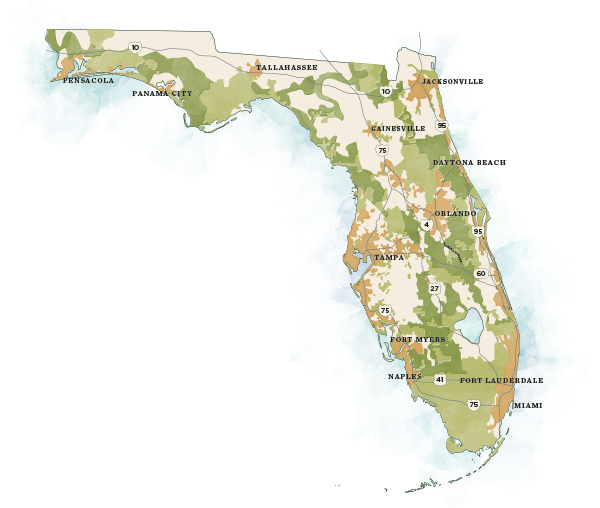
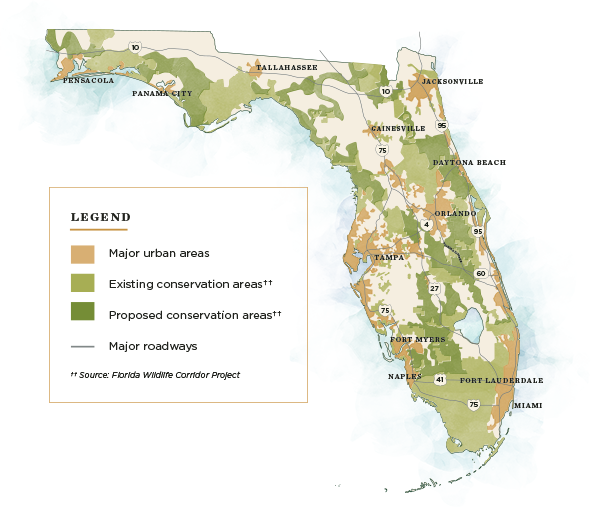
Updated colors and images

Changed region(s): [[0.12, 0.4134, 0.45, 0.6496], [0.12, 0.6791, 0.39, 0.7677]]

diff --git a/dev/2016/spring/state-of-nature/state-of-nature.html b/dev/2016/spring/state-of-nature/state-of-nature.html
@@ -1,6 +1,6 @@
 <article class="story story-default">
   <div class="container-wide story-header-image" style="background-image: url('/wp-content/themes/Pegasus-Theme/dev/2016/spring/state-of-nature/img/finding-balance-header.jpg');">
-    <img src="/wp-content/themes/Pegasus-Theme/dev/2016/spring/state-of-nature/img/finding-balance-header.jpg" alt="The Power of Inclusion" title="The Power of Inclusion">
+    <img src="/wp-content/themes/Pegasus-Theme/dev/2016/spring/state-of-nature/img/finding-balance-header.jpg" alt="Photo of Florida marsh" title="Photo of Florida marsh">
   </div>
   <div class="container">
     <div class="row title-wrap">
@@ -51,7 +51,7 @@ Noss wanders lands like this regularly. "It's a civic responsibility, but it's a
       <div class="col-md-10 col-sm-10 col-md-offset-1 col-sm-offset-1 story">
 
         <img src="/wp-content/themes/Pegasus-Theme/dev/2016/spring/state-of-nature/img/grasshopper-sparrow.jpg" class="img-responsive"
-        alt="Endangered Grasshopper Sparrow" title="Endangered Grasshopper Sparrow">
+        alt="Endangered Grasshopper Sparrow" title="Close up of Endangered Grasshopper Sparrow head">
         <p class="caption text-center">The Florida grasshopper sparrow, endemic to the dry prairies of South Florida, is among the most highly endangered birds in the continental United States.</p>
 
 <h3>The State Of The State</h3>
@@ -162,13 +162,16 @@ Overall, despite some setbacks and challenges, scientists say balance is achieva
         </div>
         <div class="row visible-xs">
             <div class="col-xs-12 col-md-12">
-                <img src="/wp-content/themes/Pegasus-Theme/dev/2016/spring/state-of-nature/img/map-mobile.png" alt="" width="100%" class="map-image">
+                <img src="/wp-content/themes/Pegasus-Theme/dev/2016/spring/state-of-nature/img/map-mobile.png" width="100%"
+                    alt="Florida map displaying the existing proposed and urban areas">
+                <img src="/wp-content/themes/Pegasus-Theme/dev/2016/spring/state-of-nature/img/chart-mobile.png" width="100%"
+                    alt="Existing Conservation Areas 27% 9.5 Million Acres, Proposed Conservation Areas 18% 6.3 Million Acres, Urban and Developed Areas 12% 4.2 Million Acres, Other Land Use 43% 14.6 Million Acres">
             </div>
         </div>
         <div class="row hidden-xs">
             <div class="col-sm-12 col-md-12">
                 <div class="map-container inview" data-callback="startMapAnime">
-                    <img src="/wp-content/themes/Pegasus-Theme/dev/2016/spring/state-of-nature/img/map-current.png" alt="" width="100%" class="map-image"><img src="/wp-content/themes/Pegasus-Theme/dev/2016/spring/state-of-nature/img/map-proposed.png" alt="" width="100%" class="map-image"><img src="/wp-content/themes/Pegasus-Theme/dev/2016/spring/state-of-nature/img/map-urban.png" alt="" width="100%" class="map-image"><img src="/wp-content/themes/Pegasus-Theme/dev/2016/spring/state-of-nature/img/map-roads-cities.png" alt="" width="100%" class="roads-cities"><img src="/wp-content/themes/Pegasus-Theme/dev/2016/spring/state-of-nature/img/map.png" alt="" width="100%">
+                    <img src="/wp-content/themes/Pegasus-Theme/dev/2016/spring/state-of-nature/img/map-current.png" width="100%" class="map-image" alt="Florida map displaying current conservation areas"><img src="/wp-content/themes/Pegasus-Theme/dev/2016/spring/state-of-nature/img/map-proposed.png" width="100%" class="map-image" alt="Florida map displaying proposed conservation areas"><img src="/wp-content/themes/Pegasus-Theme/dev/2016/spring/state-of-nature/img/map-urban.png" width="100%" class="map-image" alt="Florida map displaying urban areas"><img src="/wp-content/themes/Pegasus-Theme/dev/2016/spring/state-of-nature/img/map-roads-cities.png" width="100%" class="roads-cities" alt="Florida map displaying roads and cities"><img src="/wp-content/themes/Pegasus-Theme/dev/2016/spring/state-of-nature/img/map.png" width="100%" alt="Florida map outline">
                 </div>
                 <div class="legend-container">
                     <h3>Legend</h3>
@@ -412,28 +415,37 @@ Overall, despite some setbacks and challenges, scientists say balance is achieva
         <div class="row">
             <div class="col-md-3 col-sm-3 species-list plants">
                 <ol>
-                <li><span>Beach/surf zone</span></li>
-                <li><span>Bivalve reef</span></li>
-                <li><span>Coastal strand</span></li>
-                <li><span>Coastal tidal river or stream</span></li>
-                <li><span>Coral reef</span></li>
-                <li><span>Dry prairie</span></li>
-                <li><span>Freshwater marsh and wet prairie</span></li>
-                <li><span>Inlet</span></li>
-                <li><span>Mangrove swamp</span></li>
-                <li><span>Natural pineland</span></li>
-                <li><span>Pine rockland</span></li>
-                <li><span>Salt marsh</span></li>
-                <li><span>Sandhill</span></li>
-                <li><span>Scrub</span></li>
-                <li><span>Seagrass</span></li>
-                <li><span>Softwater stream</span></li>
-                <li><span>Spring and spring run</span></li>
-                <li><span>Tidal flat</span></li>
+                    <li><span>Beach/surf zone</span></li>
+                    <li><span>Bivalve reef</span></li>
+                    <li><span>Coastal strand</span></li>
+                    <li><span>Coastal tidal river or stream</span></li>
+                    <li><span>Coral reef</span></li>
                 </ol>
             </div>
-            <div class="col-md-9 col-sm-9">
-                [Habitat Images]
+            <div class="col-md-3 col-sm-3 species-list plants">
+                <ol start="6">
+                    <li><span>Dry prairie</span></li>
+                    <li><span>Freshwater marsh and wet prairie</span></li>
+                    <li><span>Inlet</span></li>
+                    <li><span>Mangrove swamp</span></li>
+                    <li><span>Natural pineland</span></li>
+                </ol>
+            </div>
+            <div class="col-md-3 col-sm-3 species-list plants">
+                <ol start="11">
+                    <li><span>Pine rockland</span></li>
+                    <li><span>Salt marsh</span></li>
+                    <li><span>Sandhill</span></li>
+                    <li><span>Scrub</span></li>
+                    <li><span>Seagrass</span></li>
+                </ol>
+            </div>
+            <div class="col-md-3 col-sm-3 species-list plants">
+                <ol start="16">
+                    <li><span>Softwater stream</span></li>
+                    <li><span>Spring and spring run</span></li>
+                    <li><span>Tidal flat</span></li>
+                </ol>
             </div>
         </div>
         <div class="row">

diff --git a/dev/2016/spring/state-of-nature/state-of-nature.css b/dev/2016/spring/state-of-nature/state-of-nature.css
@@ -182,19 +182,19 @@ article.story .chart-legend .number {
     font-size: 25px;
 }
 article.story .chart-legend .existing {
-    color: #acb859;
+    color: #aeba5e;
 }
 article.story .chart-legend .proposed {
     color: #799636;
 }
 article.story .chart-legend .urban {
-    color: #d8a85e;
+    color: #a77321;
 }
 article.story .chart-legend .other {
-    color: #F3E3CA;
+    color: #000000;
 }
 article.story .chart-legend .acres {
-    color: #d8a85e;
+    color: #000000;
     font-size: 14px;
     text-transform: uppercase;
 }
